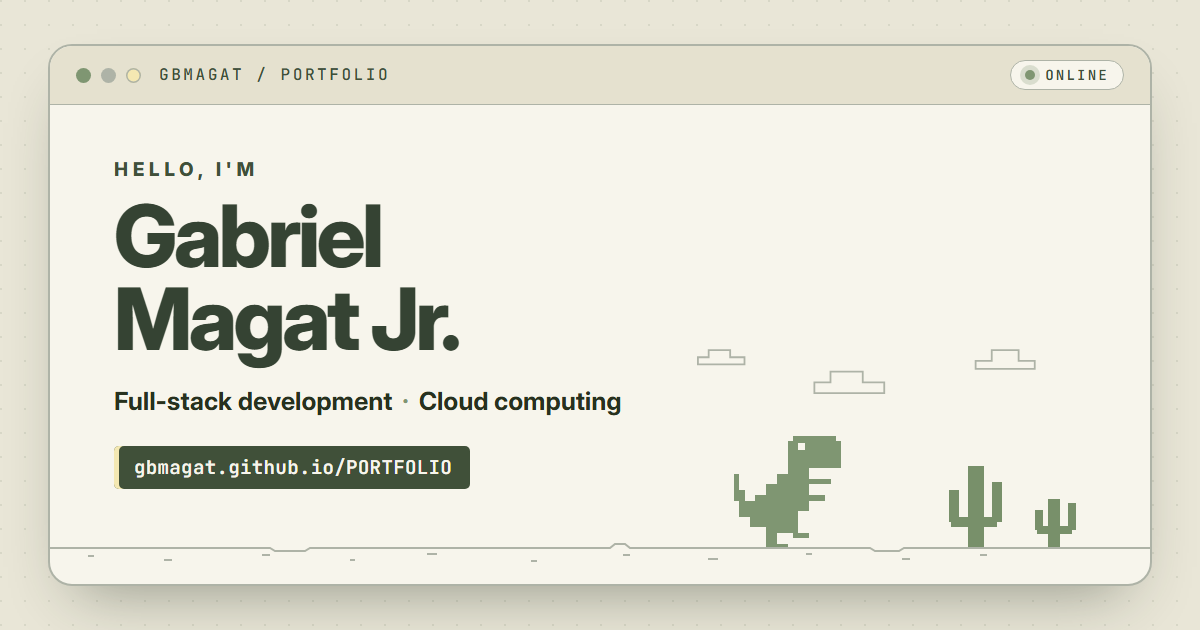
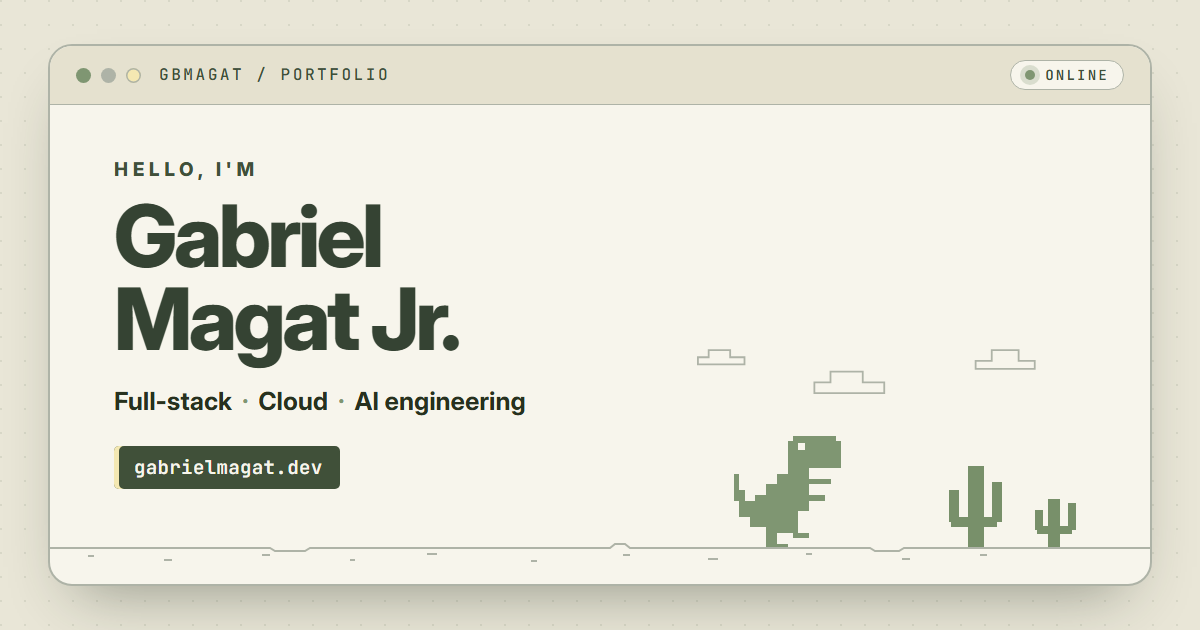
Move the site to gabrielmagat.dev
- Canonical, share and structured-data links now use gabrielmagat.dev
- Share image shows the new domain and the updated tagline
- Résumé and README link to gabrielmagat.dev
- 404 page links home to / (still works on the GitHub Pages copy)

Changed region(s): [[0.185, 0.6032, 0.5242, 0.6635], [0.1233, 0.6937, 0.4008, 0.7841]]

diff --git a/index.html b/index.html
@@ -7,15 +7,15 @@
   <meta name="description" content="Portfolio of Gabriel B. Magat Jr., a Computer Science student at Holy Angel University who builds full-stack web apps with React, Node.js, and SQL, and deploys them on Linux servers.">
   <meta name="author" content="Gabriel B. Magat Jr.">
   <meta name="theme-color" content="#e8e5d5">
-  <link rel="canonical" href="https://gbmagat.github.io/PORTFOLIO/">
+  <link rel="canonical" href="https://gabrielmagat.dev/">
 
   <!-- Link previews (LinkedIn, Messenger, X, etc.) -->
   <meta property="og:type" content="website">
   <meta property="og:site_name" content="Gabriel Magat Jr.">
   <meta property="og:title" content="Gabriel Magat Jr. — Full-Stack Developer &amp; CS Student">
   <meta property="og:description" content="Projects, experience, and contact details for Gabriel B. Magat Jr. — full-stack web development and cloud deployment.">
-  <meta property="og:url" content="https://gbmagat.github.io/PORTFOLIO/">
-  <meta property="og:image" content="https://gbmagat.github.io/PORTFOLIO/assets/img/og-image.png">
+  <meta property="og:url" content="https://gabrielmagat.dev/">
+  <meta property="og:image" content="https://gabrielmagat.dev/assets/img/og-image.png">
   <meta property="og:image:width" content="1200">
   <meta property="og:image:height" content="630">
   <meta property="og:image:alt" content="Gabriel Magat Jr. — a cream browser window with a pixel dinosaur and cacti.">
@@ -50,7 +50,7 @@
     "@type": "Person",
     "name": "Gabriel B. Magat Jr.",
     "alternateName": "Gabriel Magat Jr.",
-    "url": "https://gbmagat.github.io/PORTFOLIO/",
+    "url": "https://gabrielmagat.dev/",
     "email": "mailto:gabrielmagatjr.cs@gmail.com",
     "jobTitle": "Full-Stack Web Developer",
     "description": "Computer Science student building full-stack web applications and deploying them on Linux servers.",

diff --git a/resume.html b/resume.html
@@ -7,13 +7,13 @@
   <meta name="description" content="Résumé of Gabriel B. Magat Jr. — BS Computer Science student at Holy Angel University and freelance full-stack web developer.">
   <meta name="author" content="Gabriel B. Magat Jr.">
   <meta name="theme-color" content="#e8e5d5">
-  <link rel="canonical" href="https://gbmagat.github.io/PORTFOLIO/resume.html">
+  <link rel="canonical" href="https://gabrielmagat.dev/resume.html">
 
   <meta property="og:type" content="profile">
   <meta property="og:title" content="Résumé — Gabriel B. Magat Jr.">
   <meta property="og:description" content="Education, experience, projects, and certifications.">
-  <meta property="og:url" content="https://gbmagat.github.io/PORTFOLIO/resume.html">
-  <meta property="og:image" content="https://gbmagat.github.io/PORTFOLIO/assets/img/og-image.png">
+  <meta property="og:url" content="https://gabrielmagat.dev/resume.html">
+  <meta property="og:image" content="https://gabrielmagat.dev/assets/img/og-image.png">
   <meta name="twitter:card" content="summary_large_image">
 
   <link rel="icon" href="assets/img/favicon.svg" type="image/svg+xml">
@@ -78,7 +78,7 @@
             <li><a href="mailto:gabrielmagatjr.cs@gmail.com">gabrielmagatjr.cs@gmail.com</a></li>
             <li><a href="https://github.com/gbmagat">github.com/gbmagat</a></li>
             <li><a href="https://www.linkedin.com/in/gabriel-magat-jr/">linkedin.com/in/gabriel-magat-jr</a></li>
-            <li><a href="https://gbmagat.github.io/PORTFOLIO/">gbmagat.github.io/PORTFOLIO</a></li>
+            <li><a href="https://gabrielmagat.dev/">gabrielmagat.dev</a></li>
           </ul>
         </header>
 

diff --git a/404.html b/404.html
@@ -120,8 +120,8 @@
       <h1>This page wandered off into the desert.</h1>
       <p>The link might be broken, or the page may have moved. Here are a few ways back:</p>
       <ul>
-        <li><a class="btn btn--primary" data-home href="/PORTFOLIO/">Go home</a></li>
-        <li><a class="btn" data-home data-hash="#projects" href="/PORTFOLIO/#projects">See projects</a></li>
+        <li><a class="btn btn--primary" data-home href="/">Go home</a></li>
+        <li><a class="btn" data-home data-hash="#projects" href="/#projects">See projects</a></li>
         <li><a class="btn" href="mailto:gabrielmagatjr.cs@gmail.com">Email me</a></li>
       </ul>
     </div>
@@ -144,7 +144,7 @@
     </svg>
   </main>
   <script>
-    // Work out the site's base path (GitHub Pages serves this repo under /PORTFOLIO/)
+    // Work out the site's base path: / on gabrielmagat.dev, /PORTFOLIO/ on the GitHub Pages copy
     (function () {
       var match = location.pathname.match(/^\/portfolio\//i);
       var base = match ? match[0] : '/';

diff --git a/README.md b/README.md
@@ -6,7 +6,7 @@
 
 My personal portfolio: projects, experience, skills, and contact details. It uses the same cream "browser window" desert look as my [GitHub profile](https://github.com/gbmagat), with a sage pixel dinosaur, cacti, and drifting clouds.
 
-**Live site:** https://gbmagat.github.io/PORTFOLIO/
+**Live site:** https://gabrielmagat.dev/
 
 ## What's inside
 
@@ -20,7 +20,7 @@ My personal portfolio: projects, experience, skills, and contact details. It use
 
 ## Built with
 
-Plain HTML, CSS, and JavaScript — no framework and no build step. Hosted on GitHub Pages.
+Plain HTML, CSS, and JavaScript — no framework and no build step. Served at [gabrielmagat.dev](https://gabrielmagat.dev/); every push to `main` is published there automatically.
 
 ## Run locally
 
